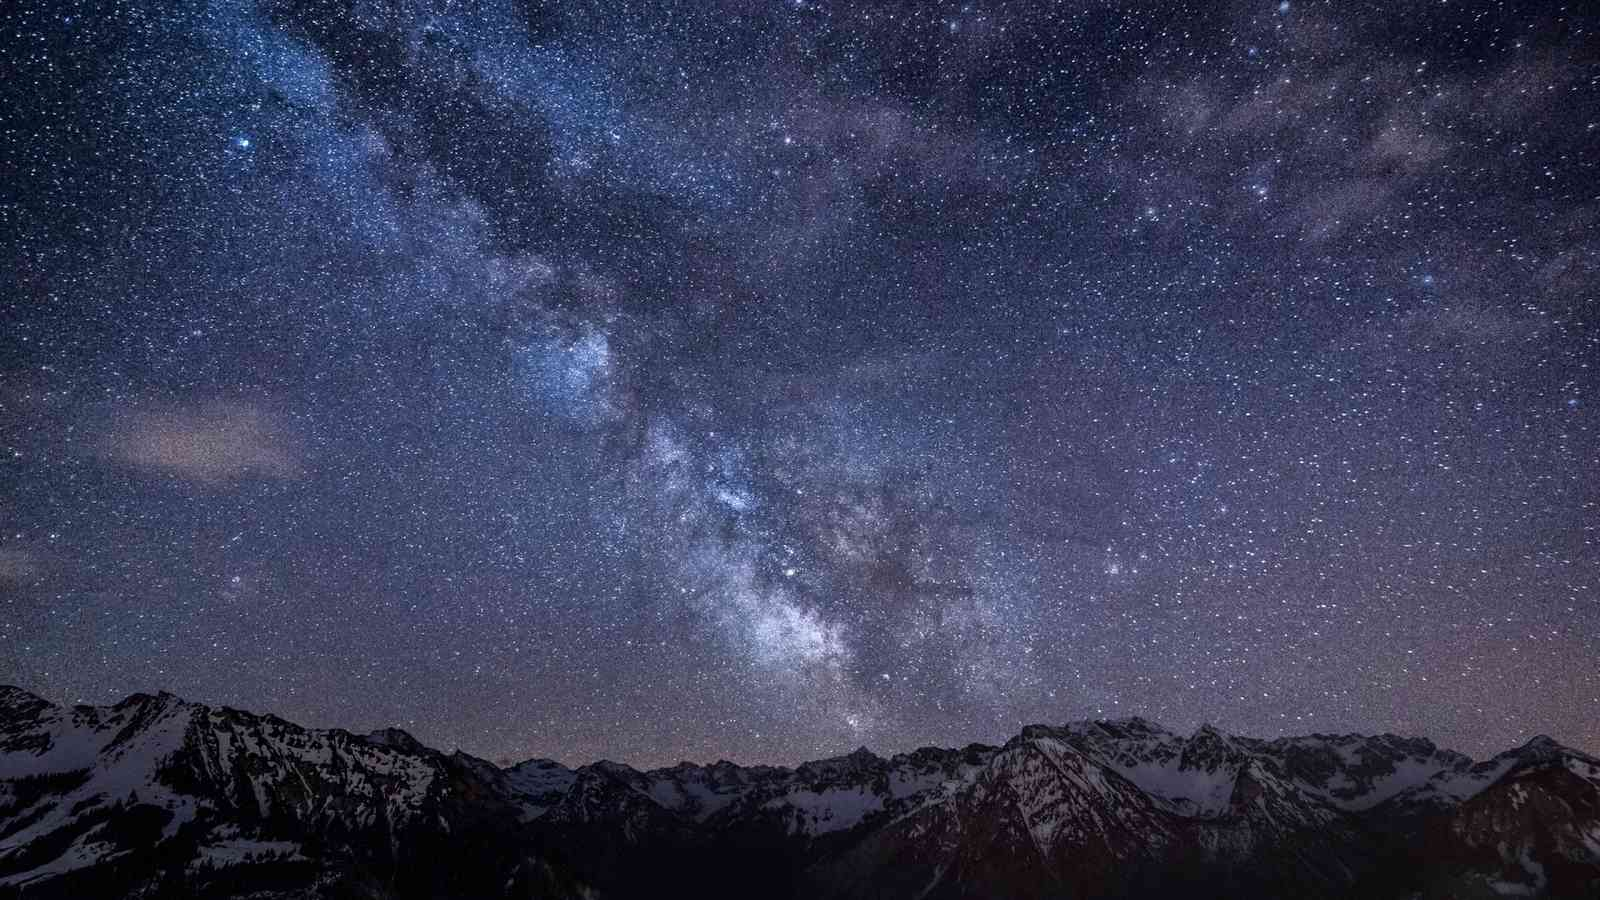
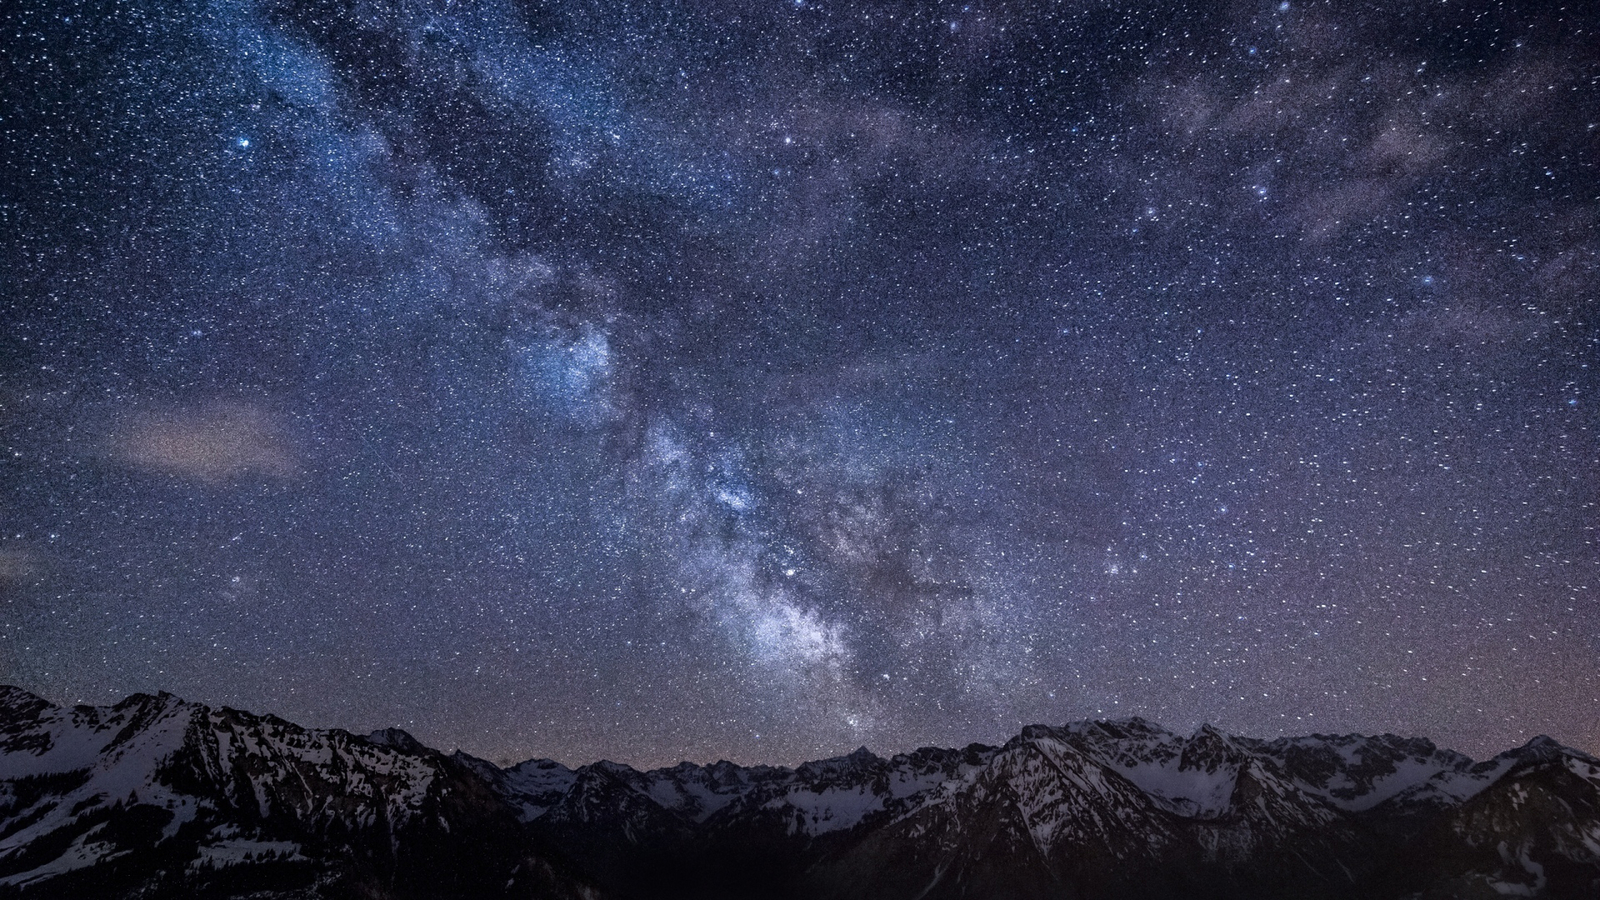
update: navbar collapse added

diff --git a/index.html b/index.html
@@ -8,10 +8,13 @@
   <meta name="viewport" content="width=device-width, minimum-scale=1.0 initial-scale=1.0">
   <link rel="stylesheet" href="css-min/concat/min_concat.css">
   <link rel="stylesheet" href="https://maxcdn.bootstrapcdn.com/bootstrap/3.3.7/css/bootstrap.min.css" integrity="sha384-BVYiiSIFeK1dGmJRAkycuHAHRg32OmUcww7on3RYdg4Va+PmSTsz/K68vbdEjh4u" crossorigin="anonymous">
+  <script src="https://use.fontawesome.com/a8c30f83b9.js"></script>
 
 </head>
 <body>
-  <nav class="navbar navbar-default navbar-fixed-top navbar-inverse">
+  <header>
+
+  <nav class="navbar navbar-default navbar-fixed-top navbar-inverse ">
     <div class="container-fluid">
       <!-- Brand and toggle get grouped for better mobile display -->
       <div class="navbar-header">
@@ -21,7 +24,13 @@
           <span class="icon-bar"></span>
           <span class="icon-bar"></span>
         </button>
-        <a class="navbar-brand" href="#">Brand</a>
+        <a class="navbar-brand" href="#">
+          <i class="fa fa-cutlery" aria-hidden="true"></i>
+          <i class="fa fa-bed" aria-hidden="true"></i>
+          <i class="fa  fa-code" aria-hidden="true"></i>
+          <i class="fa fa-repeat fa-spin" aria-hidden="true"></i>
+
+        </a>
       </div>
 
       <!-- Collect the nav links, forms, and other content for toggling -->
@@ -30,18 +39,6 @@
           <li class="active"><a href="#about-me">About Me <span class="sr-only">(current)</span></a></li>
           <li><a href="#featured-work">Featured Work</a></li>
           <li><a href="#other-work">Other Work</a></li>
-          <li class="dropdown">
-            <a href="#" class="dropdown-toggle" data-toggle="dropdown" role="button" aria-haspopup="true" aria-expanded="false">Dropdown <span class="caret"></span></a>
-            <ul class="dropdown-menu">
-              <li><a href="#">Action</a></li>
-              <li><a href="#">Another action</a></li>
-              <li><a href="#">Something else here</a></li>
-              <li role="separator" class="divider"></li>
-              <li><a href="#">Separated link</a></li>
-              <li role="separator" class="divider"></li>
-              <li><a href="#">One more separated link</a></li>
-            </ul>
-          </li>
         </ul>
 
         <ul class="nav navbar-nav navbar-right">
@@ -51,19 +48,12 @@
       </div><!-- /.navbar-collapse -->
     </div><!-- /.container-fluid -->
   </nav>
-  <header>
-    <div class="logo">
-
-    </div>
-    <div class="heading">
-      <h1>Pranav Jain</h1>
-      <h4>Code Ninja</h4>
-    </div>
   </header>
   <section class="content">
     <section class="">
       <div class="about-me" id="about-me">
         <div class="img">
+          <img src="img/my.jpg" alt="" class = "my-img">
 
         </div>
         <div class="bio">
@@ -103,7 +93,7 @@
       <div class="other-work-content">
         <div class="p4 p">
           <img src="https://placeimg.com/300/200/arch" alt="">
-          <a href="#">Loop Closure</a>
+          <a href="https://github.com/pranav9056/bow">Loop Closure</a>
         </div>
         <div class="p5 p">
           <img src="https://placeimg.com/300/200/arch" alt="">
@@ -127,6 +117,8 @@
     </nav>
   </footer>
   <script src="//localhost:35729/livereload.js"></script>
+  <script src="https://ajax.googleapis.com/ajax/libs/jquery/1.12.4/jquery.min.js"></script>
+  <script src="https://maxcdn.bootstrapcdn.com/bootstrap/3.3.7/js/bootstrap.min.js" integrity="sha384-Tc5IQib027qvyjSMfHjOMaLkfuWVxZxUPnCJA7l2mCWNIpG9mGCD8wGNIcPD7Txa" crossorigin="anonymous"></script>
 
 </body>
 </html>

diff --git a/css-min/concat/min_concat.css b/css-min/concat/min_concat.css
@@ -1,1 +1,1 @@
-.content{display:flex;flex-wrap:wrap}.about-me{background-image:url(../../img/back.jpg);background-size:cover;align-items:center;width:100%;height:90vh;display:flex}.bio p{color:#fff;text-align:center;text-align:left}.img{width:50%}img{max-width:100%}.bio{width:50%}.featured-work-content{display:flex}.other-work-content{display:flex}.p{display:block}
+.content{display:flex;flex-wrap:wrap}.about-me{background-image:image-set(url("../../img/resize/back-800_medium_1x.jpg") 1x,url("../../img/resize/back-1600_large_2x.jpg") 2x);background-image:-webkit-image-set(url("../../img/resize/back-800_medium_1x.jpg") 1x,url("../../img/resize/back-1600_large_2x.jpg") 2x);background-image:url(../../img/resize/back-800_medium_1x.jpg);background-size:cover;align-items:center;width:100%;height:90vh;display:flex}.bio p{color:#eceddc;text-align:center;text-align:left}.my-img{border-radius:50%}.img{width:50%}img{max-width:100%}.bio{width:50%}.featured-work-content{display:flex}.other-work-content{display:flex}.p{display:block}

diff --git a/css-min/main.min.css b/css-min/main.min.css
@@ -1,1 +1,1 @@
-.content{display:flex;flex-wrap:wrap}.about-me{background-image:url(../../img/back.jpg);background-size:cover;align-items:center;width:100%;height:90vh;display:flex}.bio p{color:#fff;text-align:center;text-align:left}.img{width:50%}img{max-width:100%}.bio{width:50%}.featured-work-content{display:flex}.other-work-content{display:flex}.p{display:block}
+.content{display:flex;flex-wrap:wrap}.about-me{background-image:image-set(url("../../img/resize/back-800_medium_1x.jpg") 1x,url("../../img/resize/back-1600_large_2x.jpg") 2x);background-image:-webkit-image-set(url("../../img/resize/back-800_medium_1x.jpg") 1x,url("../../img/resize/back-1600_large_2x.jpg") 2x);background-image:url(../../img/resize/back-800_medium_1x.jpg);background-size:cover;align-items:center;width:100%;height:90vh;display:flex}.bio p{color:#eceddc;text-align:center;text-align:left}.my-img{border-radius:50%}.img{width:50%}img{max-width:100%}.bio{width:50%}.featured-work-content{display:flex}.other-work-content{display:flex}.p{display:block}

diff --git a/css/main.css b/css/main.css
@@ -3,7 +3,9 @@
   flex-wrap: wrap;
 }
 .about-me{
-  background-image:  url("../../img/back.jpg");
+  background-image:  image-set(url("../../img/resize/back-800_medium_1x.jpg") 1x,url("../../img/resize/back-1600_large_2x.jpg") 2x);
+  background-image:  -webkit-image-set(url("../../img/resize/back-800_medium_1x.jpg") 1x,url("../../img/resize/back-1600_large_2x.jpg") 2x);
+  background-image:  url("../../img/resize/back-800_medium_1x.jpg") ;
   background-size: cover;
   align-items: center;
   width: 100%;
@@ -11,15 +13,21 @@
   display: flex;
 }
 .bio p{
-  color: white;
+  color: #ECEDDC;
   text-align: center;
   text-align: left;
+
+}
+.my-img{
+  border-radius: 50%;
 }
 .img{
   width: 50%;
+
 }
 img{
   max-width: 100%;
+
 }
 .bio{
   width: 50%;

diff --git a/Gruntfile.js b/Gruntfile.js
@@ -36,14 +36,14 @@ module.exports = function(grunt) {
 
             width: 1600 ,
             suffix: '_large_2x',
-            quality:30
+            quality:100
 
           },
           {
 
             width: 800 ,
             suffix: '_medium_1x',
-            quality:30
+            quality:100
 
           },
           {
